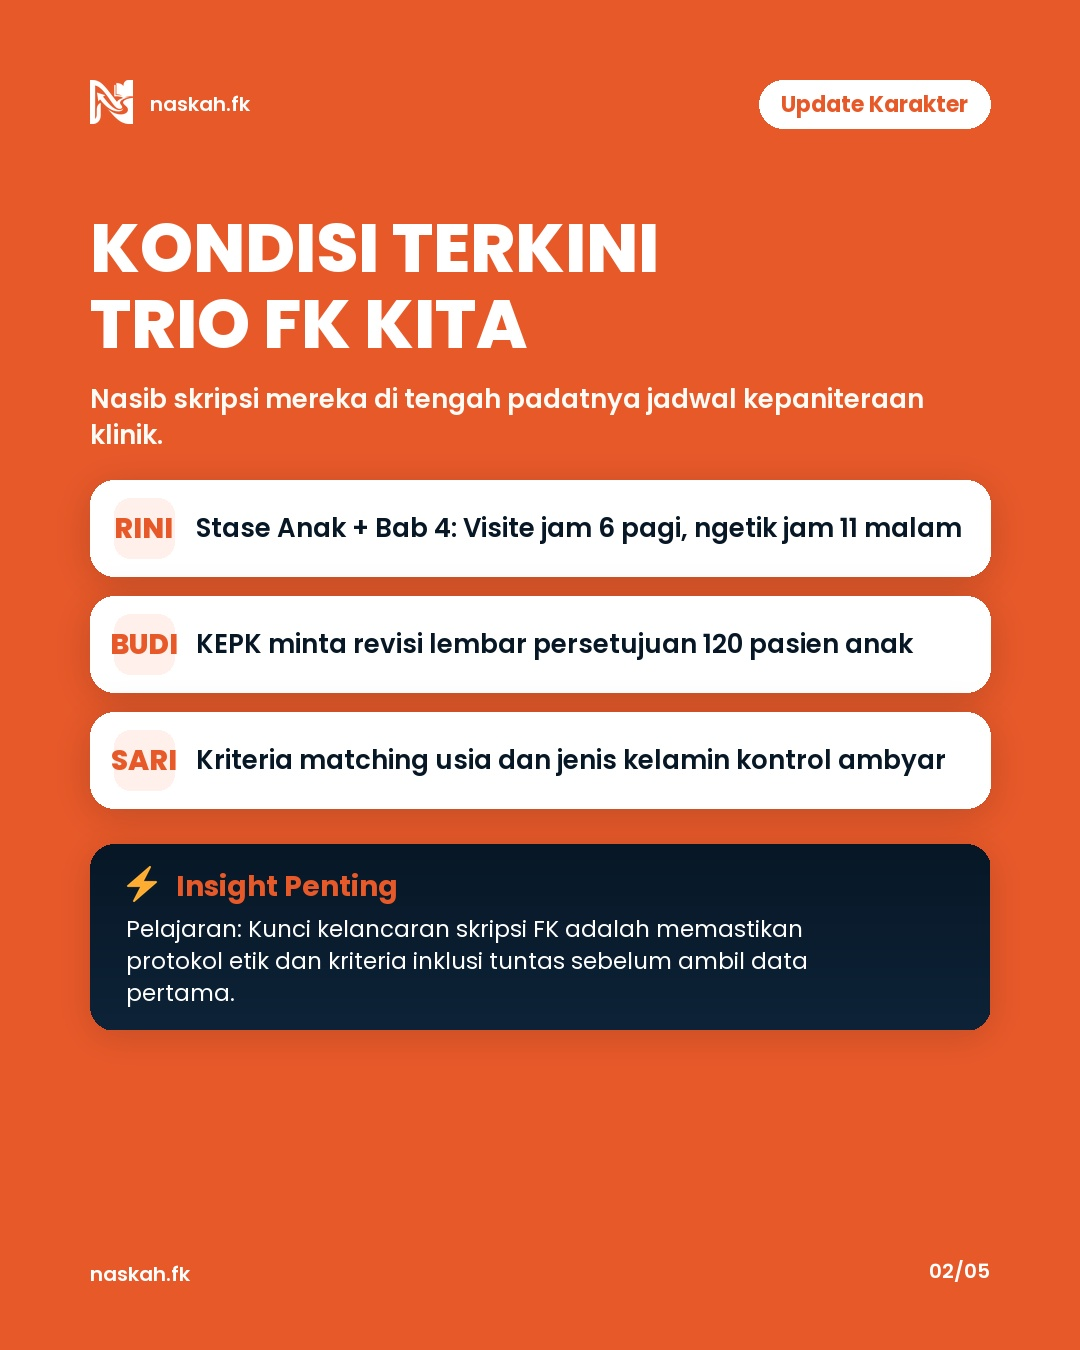
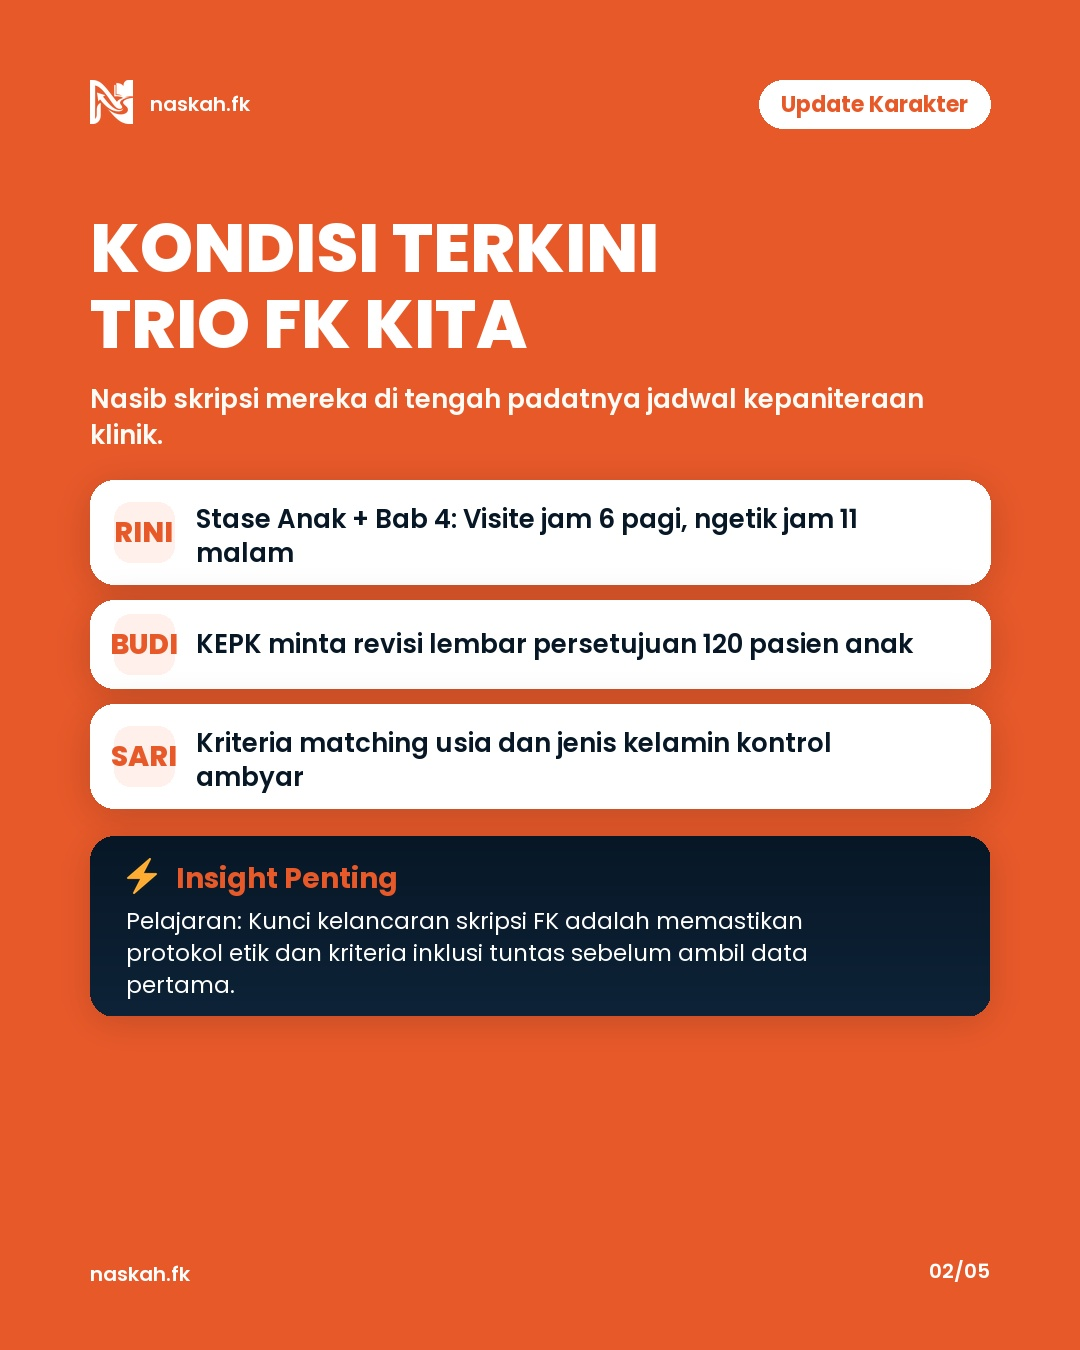
fix(visual): fix text overflow on slide 02 (formula) with dynamic card wrapping and padding across Week 2 suite

Changed region(s): [[0.0917, 0.4978, 0.9167, 0.7778], [0.0917, 0.3733, 0.9167, 0.4667]]

diff --git a/04_GENERATORS/generate_carousel_2026.py b/04_GENERATORS/generate_carousel_2026.py
@@ -294,29 +294,53 @@ def render_formula(c: dict, tag: str) -> Image.Image:
         steps = [{"pill": str(i + 1).zfill(2), "text": p} for i, p in enumerate(pills_raw)]
 
     for st in steps[:3]:
+        raw_text = st.get("text", "")
+        # Clean wrap text inside the white card (max width 740px to leave generous padding)
+        wrapped_text = wrap_text_clean(raw_text, 740, F["body_b"], d)
+        n_lines = max(1, len(wrapped_text))
+        
+        # Dynamic card height based on text lines
+        if n_lines == 1:
+            pill_h = 88
+        elif n_lines == 2:
+            pill_h = 104
+        else:
+            pill_h = 80 + n_lines * 30
+
         pill_w = 900
-        pill_h = 96
         pbox = (90, y, 90 + pill_w, y + pill_h)
         im = soft_shadow(im, pbox, radius=24, alpha=45, blur=18, offset=(0, 7))
         d = ImageDraw.Draw(im)
         d.rounded_rectangle(pbox, radius=24, fill=WHITE)
-        d.rounded_rectangle((114, y + 18, 174, y + 78), radius=16, fill=ORANGE_LIGHT)
-        d.text((144, y + 48), st.get("pill", "+"), font=F["num"], fill=ORANGE, anchor="mm")
-        d.text((196, y + 48), st.get("text", ""), font=F["body_b"], fill=NAVY, anchor="lm")
-        y += pill_h + 20
+        
+        # Centered orange number badge
+        badge_y = y + (pill_h - 60) // 2
+        d.rounded_rectangle((114, badge_y, 174, badge_y + 60), radius=16, fill=ORANGE_LIGHT)
+        d.text((144, badge_y + 30), st.get("pill", "+"), font=F["num"], fill=ORANGE, anchor="mm")
+        
+        # Text rendering: vertically centered for 1 line, stacked for 2+ lines
+        if n_lines == 1:
+            d.text((196, y + pill_h // 2), wrapped_text[0], font=F["body_b"], fill=NAVY, anchor="lm")
+        else:
+            ty = y + (pill_h - (n_lines * 34)) // 2 + 2
+            for wline in wrapped_text:
+                d.text((196, ty), wline, font=F["body_b"], fill=NAVY)
+                ty += 34
+                
+        y += pill_h + 16
 
     # Bottom Insight Card (Solid Navy Glass, distinct & informative)
     ins_text = c.get("insight", "Kuncinya bukan durasi belajar, tapi konsistensi ritual kecil.")
     ins_wrapped = wrap_text_clean(ins_text, 760, F["body_r"], d)
-    ins_h = 90 + len(ins_wrapped) * 32
-    ins_box = (90, y + 16, 990, y + 16 + ins_h)
+    ins_h = 84 + len(ins_wrapped) * 32
+    ins_box = (90, y + 12, 990, y + 12 + ins_h)
     im = soft_shadow(im, ins_box, radius=24, alpha=40, blur=16, offset=(0, 6))
     rounded_rect_grad(im, ins_box, 24, NAVY, NAVY_LIGHT)
     d = ImageDraw.Draw(im)
-    paste_emoji(im, "⚡", (124, y + 38), size=36, anchor="top_left")
+    paste_emoji(im, "⚡", (124, y + 34), size=36, anchor="top_left")
     d = ImageDraw.Draw(im)
-    d.text((176, y + 38), "Insight Penting", font=F["card_t"], fill=ORANGE)
-    iy = y + 84
+    d.text((176, y + 34), "Insight Penting", font=F["card_t"], fill=ORANGE)
+    iy = y + 80
     for iline in ins_wrapped:
         d.text((126, iy), iline, font=F["body_r"], fill=WHITE)
         iy += 32
